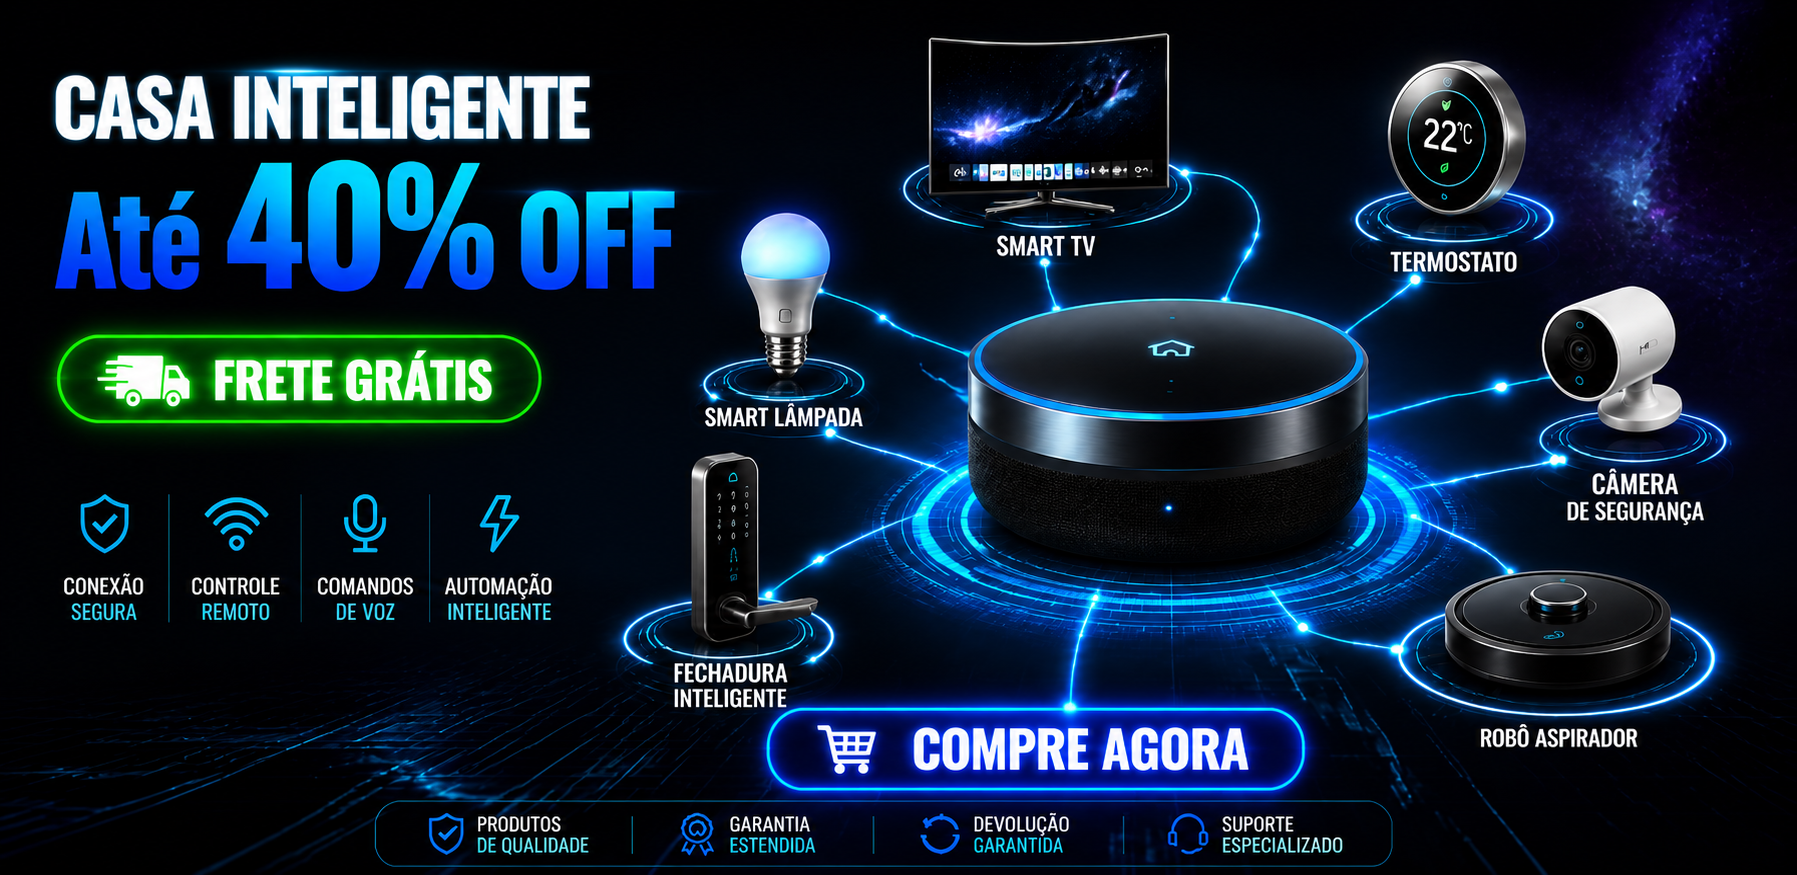
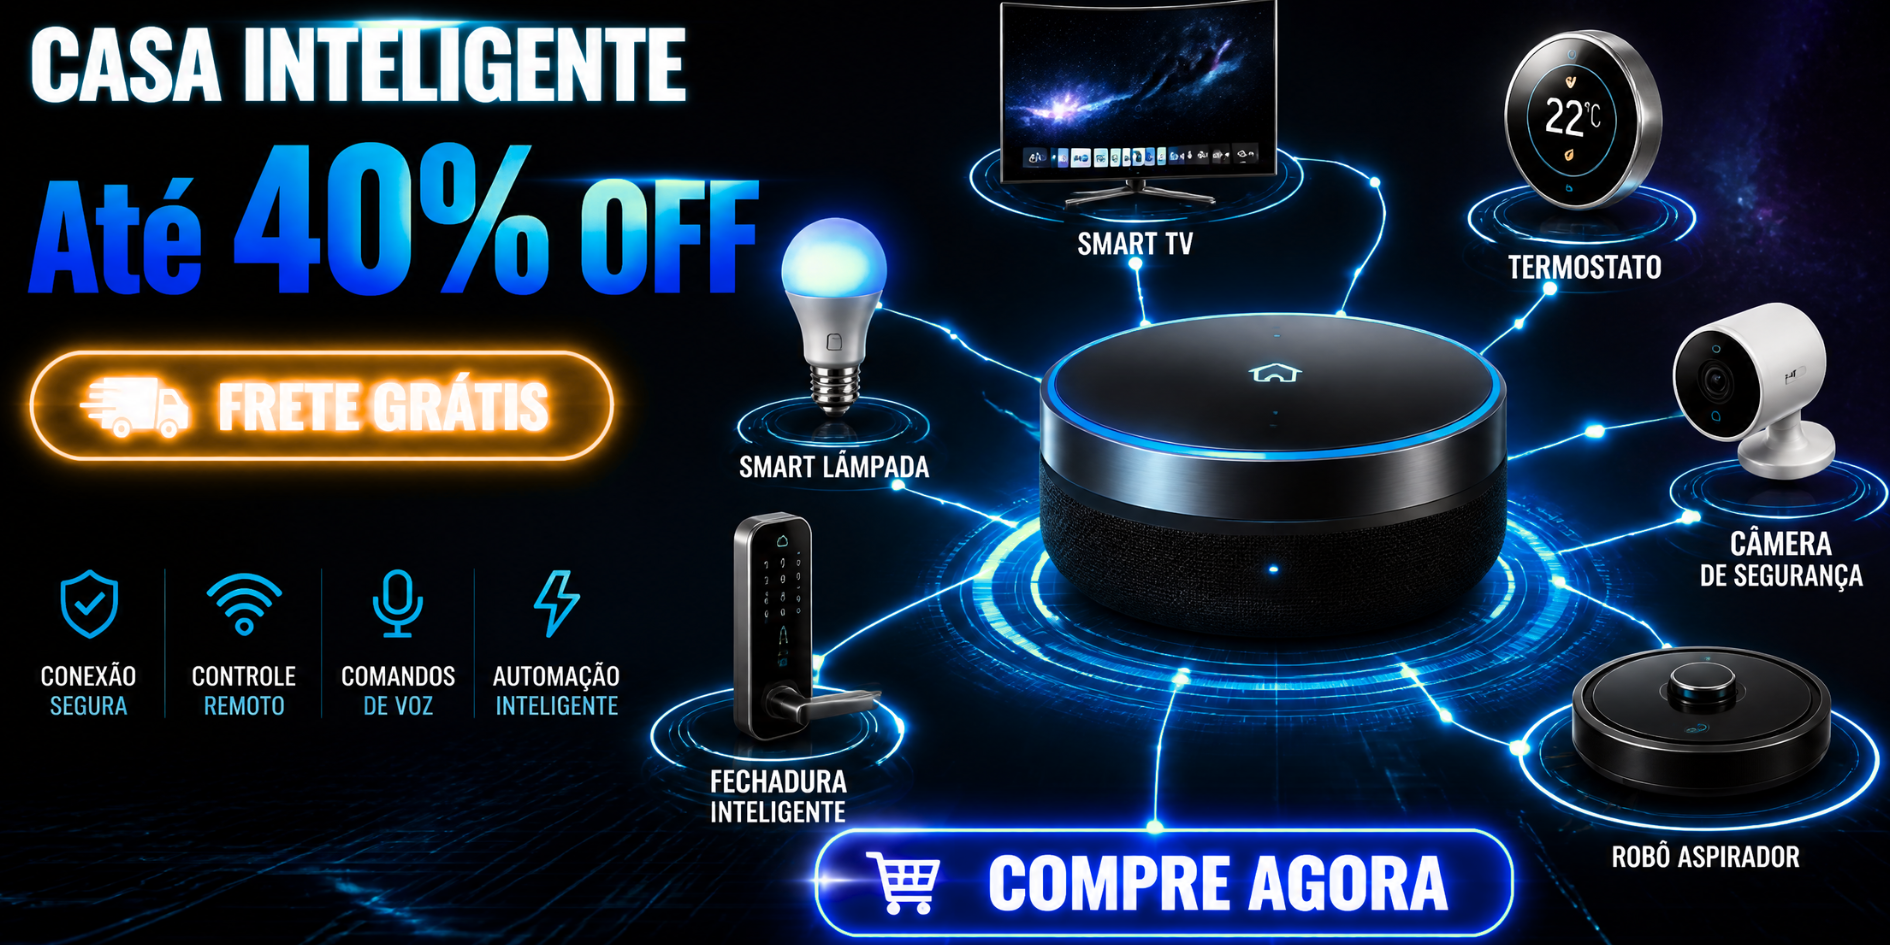
feat: atualizar informações do rodapé e ajustar preços dos produtos

diff --git a/src/app/page.tsx b/src/app/page.tsx
@@ -5,7 +5,7 @@ export default function Home() {
   return (
     <div className="w-full min-h-screen bg-slate-50 pb-12">
       {/* Carrossel de Banner no Topo */}
-      <Carrossel />
+      <Carrossel /> 
 
       {/* Título da Seção */}
       <div className="text-center my-10">
@@ -22,17 +22,16 @@ export default function Home() {
       */}
       <div className="grid grid-cols-1 md:grid-cols-2 lg:grid-cols-3 gap-8 max-w-6xl mx-auto px-4">
 
-        {/* Card 1: Caderno */}
+        {/* Card 1: Camera Inteligente */}
         <CardProduto
           id={1}
           title="Câmera Inteligente"
           description="Câmera com tecnologia de última geração. Ideal para capturar momentos especiais com qualidade impecável."
-          price={89.90}
+          price={99.90}
           imageSrc="/produtos/camera.png"
           destaque={true}
         />
 
-        {/* Card 2: Estojo */}
         <CardProduto
           id={2}
           title="Roteador Inteligente"
@@ -42,12 +41,11 @@ export default function Home() {
           destaque={false}
         />
 
-        {/* Card 3: Canetas */}
         <CardProduto
           id={3}
           title="Maçaneta Inteligente"
           description="Maçaneta com tecnologia de última geração. Ideal para segurança e praticidade em portas modernas."
-          price={45.00}
+          price={99.90}
           imageSrc="/produtos/macaneta.png"
           destaque={false}
         />

diff --git a/src/components/Footer.tsx b/src/components/Footer.tsx
@@ -7,8 +7,8 @@ export default function Footer() {
   return (
     <footer className="w-full bg-white border-t border-slate-200 px-36 py-8 flex flex-col gap-6">
       <div className="flex justify-between items-center text-xs text-slate-400">
-        <p>&copy; {currentYear} Sensata. Todos os direitos reservados.</p>
-        <p className="text-slate-300">Feito com carinho para você.</p>
+        <p>&copy; {currentYear} Tech-Ohmi. Todos os direitos reservados.</p>
+        <p className="text-slate-300">Feito com carinho para sua automoção.</p>
       </div>
     </footer>
   );
